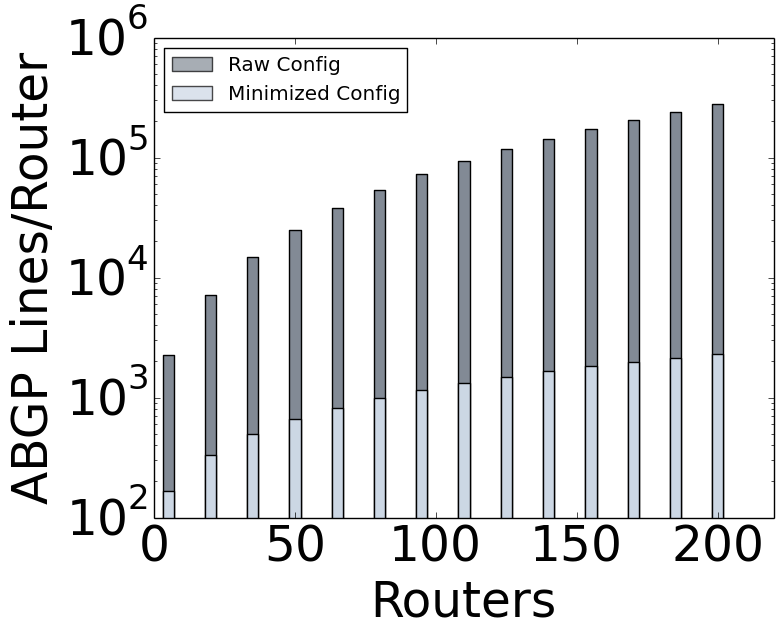
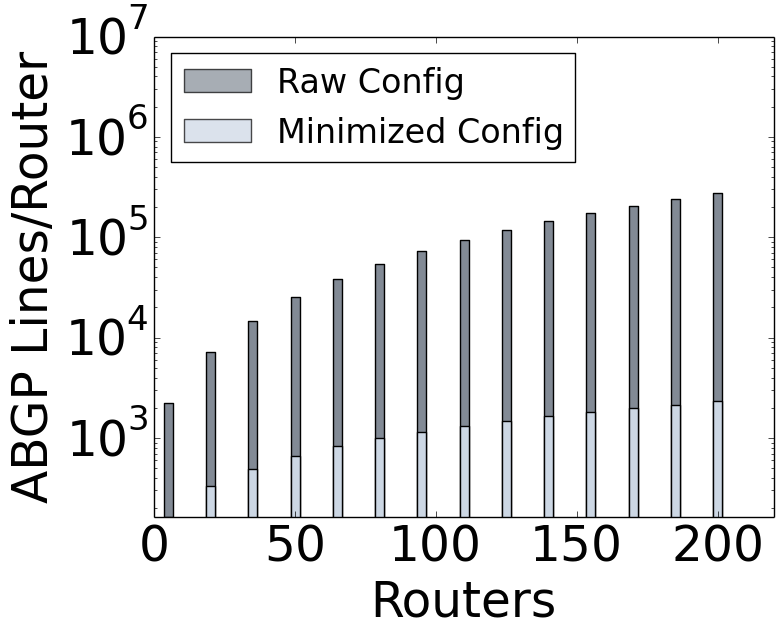
shrinking images

diff --git a/paper/evaluation.tex b/paper/evaluation.tex
@@ -19,25 +19,31 @@ Not counting the lines for various definitions like prefix and customer groups o
 
 \subsection{Compilation time}
 
+
 \begin{figure}[t!]
-\centering
-\includegraphics[width=\columnwidth]{figures/compilation-times-dc.png}
-\label{fig:compilation-times-dc}
-\caption{Data center compilation times.}
+  \centering
+  \begin{minipage}[b]{0.45\linewidth}
+    \includegraphics[width=1.1\columnwidth]{figures/compilation-times-dc.png}
+  \end{minipage}
+  \quad
+  \begin{minipage}[b]{0.45\linewidth}
+    \includegraphics[width=1.1\columnwidth]{figures/compilation-times-backbone.png}
+  \end{minipage}
+  \caption{Compilation times.}
+  \label{fig:compilation-times}
 \end{figure}
 
 \begin{figure}[t!]
-\centering
-\includegraphics[width=\columnwidth]{figures/compilation-times-backbone.png}
-\label{fig:compilation-times-dc}
-\caption{Data center compilation times.}
-\end{figure}
-
-\begin{figure}[t!]
-\centering
-\includegraphics[width=\columnwidth]{figures/config-compression-dc.png}
-\label{fig:compilation-compression-dc}
-\caption{Data center config minimization.}
+  \centering
+  \begin{minipage}[b]{0.45\linewidth}
+    \includegraphics[width=1.1\columnwidth]{figures/config-compression-dc.png}
+  \end{minipage}
+  \quad
+  \begin{minipage}[b]{0.45\linewidth}
+    \includegraphics[width=1.1\columnwidth]{figures/config-compression-backbone.png}
+  \end{minipage}
+  \caption{Configuration minimization.}
+  \label{fig:minipage2}
 \end{figure}
 
 We now study the compilation of time for both policies as a function of network size. Even though the networks we study have a fixed topology and size, we can explore the impact of size because our converted policies are network-wide and the compiler takes topology itself as an input. For the data center network, we build and provide as input fat tree topologies of different sizes, assign a /24 prefix to each ToR switch, and randomly map prefixes to each type of prefix group with a distinct routing policy. We take this approach to smoothly explore different sizes; there is a parameterized way to build fat trees~\cite{fattree}, which does not exist for our concrete data center topologies. For a given size, our reported results match those for the concrete topologies.
@@ -65,16 +71,3 @@ $i)$ operators used the no-export community to prevent routes from leaking beyon
 $ii)$ operators prevented unneeded propagation of more-specific route advertisements from a neighboring AS based on their out-of-band knowledge about topology, whereas \sysname propagated these advertisements; and
 %
 $iii)$ operators used a layer of indirection using community groups and re-writing to implement certain policies in a more maintainable way, where \sysname uses flat communities. We are currently investigating if such differences matter to operators (e.g., if they want to read \sysname configurations) and, if necessary, how to reduce them.
-
-\begin{figure}[ht]
-\centering
-\begin{minipage}[b]{0.45\linewidth}
-\includegraphics[width=1.2\columnwidth]{figures/compilation-times-dc.png}
-\end{minipage}
-\quad
-\begin{minipage}[b]{0.45\linewidth}
-\includegraphics[width=1.2\columnwidth]{figures/compilation-times-backbone.png}
-\end{minipage}
-\caption{Sad Smiley}
-\label{fig:minipage2}
-\end{figure}

diff --git a/data/backbone.py b/data/backbone.py
@@ -81,7 +81,7 @@ ax1.set_xlabel('Routers', fontsize=35)
 ax1.set_ylabel('Avg. Time / Prefix (s)', fontsize=35)
 ax1.tick_params(axis='both', which='major', labelsize=35)
 ax1.tick_params(axis='both', which='minor', labelsize=35)
-ax1.xaxis.set_ticks([40,80,120,160,200])
+ax1.xaxis.set_ticks([0,40,80,120,160,200])
 ax1.yaxis.set_ticks([5,15,25,35,45])
 #ax1.set_xlim([0,1400])
 #ax1.set_ylim([0,20])
@@ -92,8 +92,8 @@ p3 = plt.Rectangle((0, 0), 1, 1, fc=color3, alpha=.7)
 p4 = plt.Rectangle((0, 0), 1, 1, fc=color4, alpha=.7)
 leg_boxes = [p4, p3, p2, p1]
 descrs = ["Gen/Min ABGP", "Find Preferences", "Minimize PG", "Construct PG"]
-ax1.legend(leg_boxes, descrs, loc=2, fontsize=20)
-fig.savefig('compilation-time-backbone.png', bbox_inches='tight')
+ax1.legend(leg_boxes, descrs, loc=2, fontsize=24)
+fig.savefig('compilation-times-backbone.png', bbox_inches='tight')
 
 
 #====================================================
@@ -109,14 +109,15 @@ sizes_compressed_per = map(lambda (size,n): size/n, zip(sizes_compressed, num_no
 
 fig = plt.figure()
 ax1 = fig.add_subplot(111)
-ax1.bar(num_nodes1, sizes_raw_per, width=4, color=color1, alpha=1, align='center', log=True)
-ax1.bar(num_nodes2, sizes_compressed_per, width=4, color=color3, alpha=1, align='center',log=True)
+ax1.bar(num_nodes1, sizes_raw_per, width=3.2, color=color1, alpha=1, align='center', log=True)
+ax1.bar(num_nodes2, sizes_compressed_per, width=3.2, color=color3, alpha=1, align='center',log=True)
 ax1.set_xlabel('Routers', fontsize=35)
 ax1.set_ylabel('ABGP Lines/Router', fontsize=35)
 ax1.tick_params(axis='both', which='major', labelsize=35)
 ax1.tick_params(axis='both', which='minor', labelsize=35)
 ax1.set_xlim([0,220])
+ax1.set_ylim([0,10*10*10*10*10*10*10])
 leg_boxes = [p1, p3]
 descrs = ["Raw Config", "Minimized Config"]
-ax1.legend(leg_boxes, descrs, loc=2)
+ax1.legend(leg_boxes, descrs, loc=2, fontsize=24)
 fig.savefig('config-compression-backbone.png', bbox_inches='tight')

diff --git a/data/datacenter.py b/data/datacenter.py
@@ -93,8 +93,8 @@ p3 = plt.Rectangle((0, 0), 1, 1, fc=color3, alpha=.7)
 p4 = plt.Rectangle((0, 0), 1, 1, fc=color4, alpha=.7)
 leg_boxes = [p4, p3, p2, p1]
 descrs = ["Gen/Min ABGP", "Find Preferences", "Minimize PG", "Construct PG"]
-ax1.legend(leg_boxes, descrs, loc=2, fontsize=20)
-fig.savefig('compilation-time-dc.png', bbox_inches='tight')
+ax1.legend(leg_boxes, descrs, loc=2, fontsize=24)
+fig.savefig('compilation-times-dc.png', bbox_inches='tight')
 
 #====================================================
 # 
@@ -118,8 +118,9 @@ ax1.tick_params(axis='both', which='minor', labelsize=35)
 
 ax1.xaxis.set_ticks([200,600,1000,1400])
 #ax1.set_xlim([0,1400])
-#ax1.set_ylim([0,20])
+ax1.set_ylim([0,10*10*10*10*10*10*10])
+
 leg_boxes = [p1, p3]
 descrs = ["Raw Config", "Minimized Config"]
-ax1.legend(leg_boxes, descrs, loc=2)
+ax1.legend(leg_boxes, descrs, loc=2, fontsize=24)
 fig.savefig('config-compression-dc.png', bbox_inches='tight')
